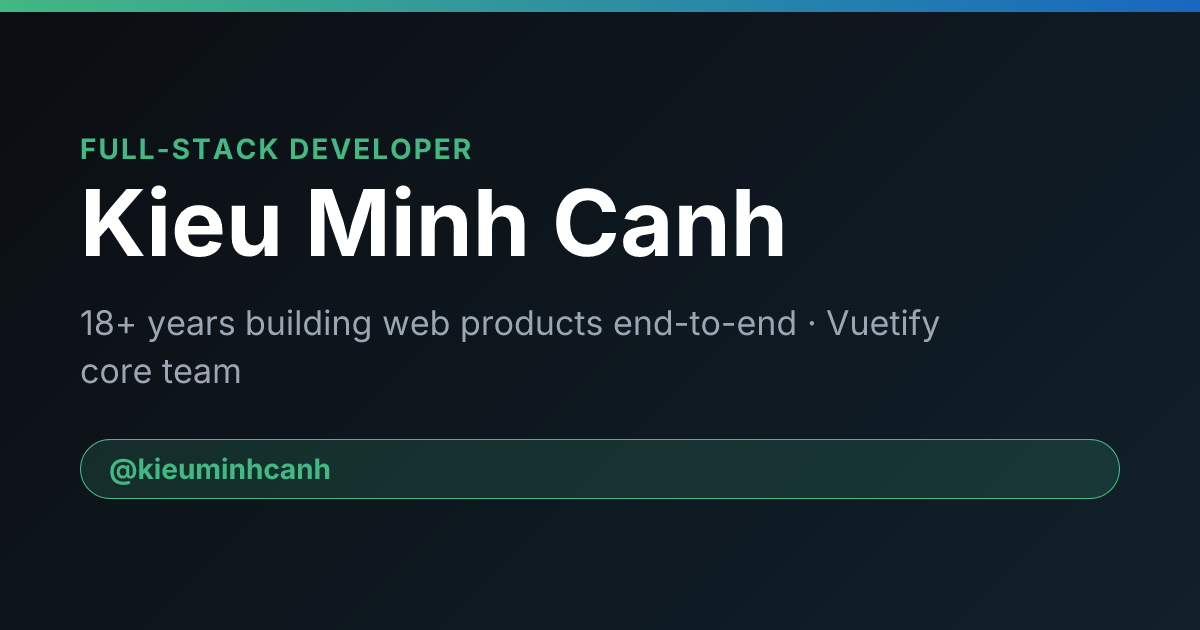
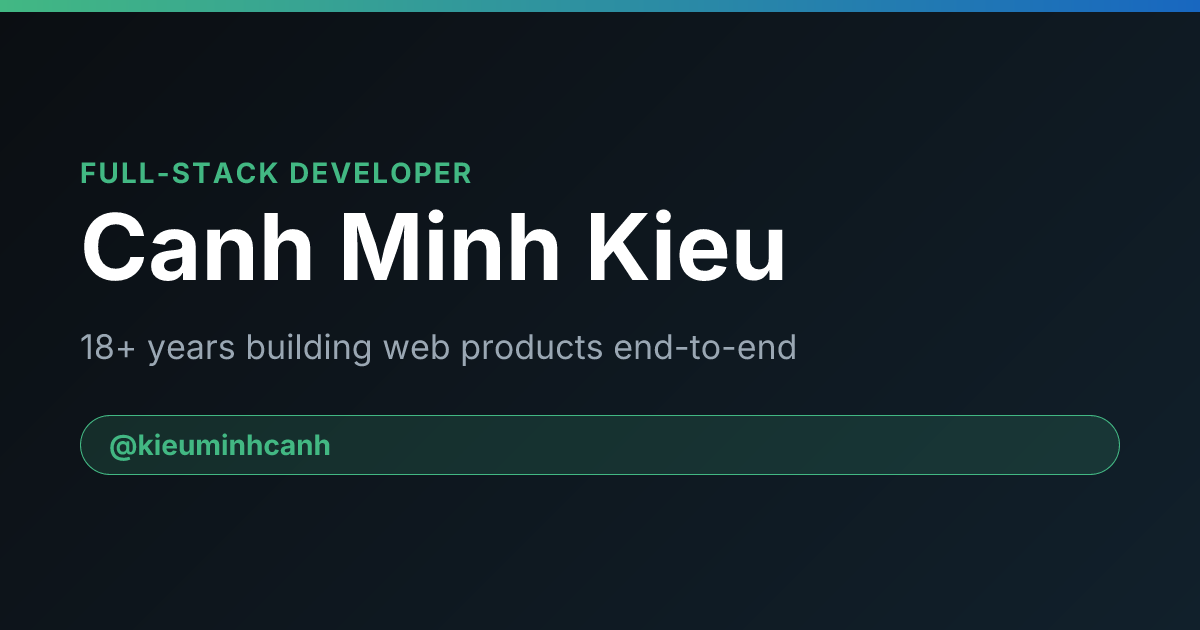
Localize display name and refine site title
Show the name per locale (Canh Minh Kieu / Kiều Minh Cảnh) across the
badge, browser title, and OG image. Use a rounded GitHub avatar as the
navbar logo beside the name, set the tab title to name plus role, and
balance hero text wrapping for tidier line breaks.

Changed region(s): [[0.0617, 0.4825, 0.9558, 0.8143], [0.0617, 0.2111, 0.6783, 0.4524]]

diff --git a/.vitepress/theme/components/EventBadge.vue b/.vitepress/theme/components/EventBadge.vue
@@ -14,20 +14,24 @@ const props = withDefaults(defineProps<{
   handle?: string
   github?: string
 }>(), {
-  name: 'Kieu Minh Canh',
+  name: '',
   title: '',
   handle: '@kieuminhcanh',
   github: 'kieuminhcanh',
 })
 
 const { lang } = useData()
+const isVi = computed(() => lang.value.startsWith('vi'))
 
-// Fall back to a locale-aware default when no title prop is given.
+// Locale-aware defaults when no prop is given.
+const name = computed(() =>
+  props.name || (isVi.value ? 'Kiều Minh Cảnh' : 'Canh Minh Kieu'),
+)
 const title = computed(() =>
-  props.title || (lang.value.startsWith('vi') ? 'Lập trình viên Full-stack' : 'Full-stack Developer'),
+  props.title || (isVi.value ? 'Lập trình viên Full-stack' : 'Full-stack Developer'),
 )
 
-const initials = props.name.split(' ').map(s => s[0]).slice(0, 2).join('')
+const initials = computed(() => name.value.split(' ').map(s => s[0]).slice(0, 2).join(''))
 const avatarOk = ref(true)
 
 // Pointer-driven 3D tilt.

diff --git a/.vitepress/theme/custom.css b/.vitepress/theme/custom.css
@@ -75,12 +75,14 @@
   }
 }
 
-/* Let the heading + tagline span the full text column width. */
+/* Let the heading + tagline span the full text column width,
+   with balanced wrapping for tidier line breaks. */
 .VPHero .heading,
 .VPHero .name,
 .VPHero .text,
 .VPHero .tagline {
   max-width: none;
+  text-wrap: balance;
 }
 
 .VPHero .name {
@@ -96,6 +98,14 @@
 .VPHero .tagline {
   line-height: 1.6;
   opacity: 0.9;
+}
+
+/* Round the GitHub avatar used as the navbar logo. */
+.VPNavBarTitle .logo {
+  width: 28px;
+  height: 28px;
+  border-radius: 50%;
+  object-fit: cover;
 }
 
 /* Ambient glow behind the hero */
